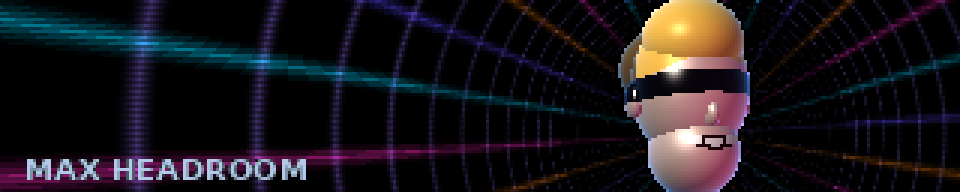
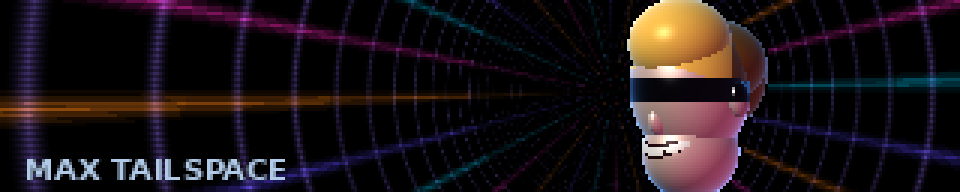
headroom: caption MAX TAILSPACE rather than the character's name
A head and a room, with the opposite taken of both halves. It is the sort of
joke the character would have made about himself, and it keeps a wall in a
makerspace from putting someone else's name across itself in letters a foot
high. --say still takes anything, and the stutter is derived from whatever it
is given rather than hardcoded, so this costs nothing.

Screenshot recaptured, since the old one had the old caption burnt into it.

diff --git a/demos/headroom.py b/demos/headroom.py
@@ -148,7 +148,10 @@ def add_arguments(ap):
                     help="how often and how hard the picture tears, 0..1")
     ap.add_argument("--stutter", type=float, default=0.6,
                     help="how much the head holds, ratchets and jumps, 0..1")
-    ap.add_argument("--say", default="MAX HEADROOM",
+    # Not his name. A head is a tailspace's opposite in both halves, which is
+    # the sort of joke the character would have made about himself, and it
+    # keeps the wall from claiming to be someone it is not.
+    ap.add_argument("--say", default="MAX TAILSPACE",
                     help="stuttered caption along the bottom; empty for none")
     ap.add_argument("--side", default="right", choices=("left", "right"),
                     help="which side of the panel the head sits on")

diff --git a/demos/README.md b/demos/README.md
@@ -591,9 +591,15 @@ unpigmented base with the room's magenta arriving through the fill and a hard
 specular carrying the surface; an earlier pass with the colour in the base
 instead came out as meat.
 
+The caption says MAX TAILSPACE, which is what a head and a room become when you
+take the opposite of both halves — the sort of joke the character would have
+made about himself, and it keeps the wall from claiming to be someone it is
+not. `--say` takes anything; the stutter is derived from whatever it is given.
+
 ```console
 $ python3 headroom.py --room acid --spin -1.5 --glitch 1
 $ python3 headroom.py --say "" --side left --no-scanlines
+$ python3 headroom.py --say BLIPVERT --room ice
 ```
 
 ### wopr
